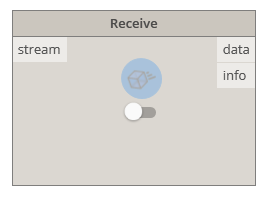
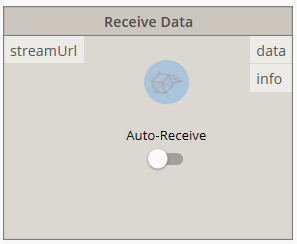
updating all remaining node images and GIFs

Changed region(s): [[0.0, 0.0, 1.0, 1.0], [0.4148, 0.2424, 0.7111, 0.697]]

diff --git a/user/dynamo.md b/user/dynamo.md
@@ -48,7 +48,7 @@ Let's look at how we would send some data in Dynamo. First, start by creating a 
 
 In order to select which stream to send data to, you just need to pass a stream URL to the `streamUrl` port.
 
-![image-20210322170153584](./img-dyn/image-20210322170153584.png)
+![image-20210322170153584](./img-dyn/sending-multiple-branches.png)
 
 Alternatively, you can also use one of the following nodes to create / retrieve existing streams:
 
@@ -75,11 +75,12 @@ With a Stream URL and some data to send, the only thing left to do is to press t
 
 ![dyn-send](./img-dyn/dyn-send.gif)
 
+
 ### Viewing a Stream Online
 
 To view the sent stream online you can just right click on the sender node:
 
-![image](https://user-images.githubusercontent.com/2679513/114192190-1b9d0300-9945-11eb-952a-8676a4854397.png)
+![image](./img-dyn/viewing-a-stream-online.png)
 
 ### Sending to a Specific Branch
 
@@ -129,7 +130,7 @@ Like commits, objects in a commit cannot be edited, so the data received using s
 
 To view the received stream online you can just right-click on the receiver node:
 
-![image](https://user-images.githubusercontent.com/2679513/114192622-9bc36880-9945-11eb-8b49-639f0f34b619.png)
+![image](./img-dyn/viewing-a-stream-online.png)
 
 ## Creating Custom Objects
 
@@ -233,7 +234,7 @@ Select the appropriate account and press the blue button. If the stream creation
 
 To view the newly-created stream online you can just right click on the node:
 
-![image](https://user-images.githubusercontent.com/2679513/114194176-2193e380-9947-11eb-8b55-8f2f56d07773.png)
+![image](./img-dyn/viewing-the-stream-online.png)
 
 #### Inputs
 
